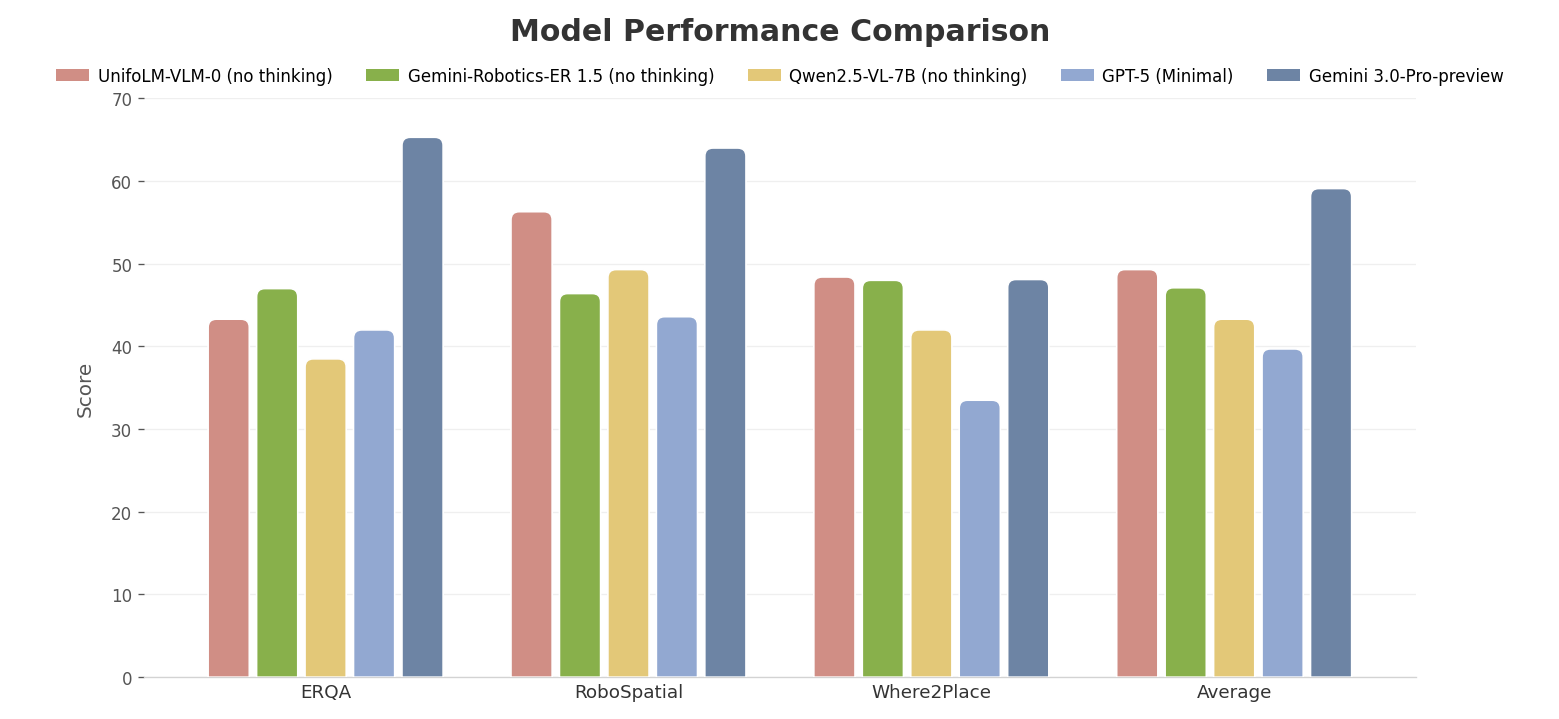
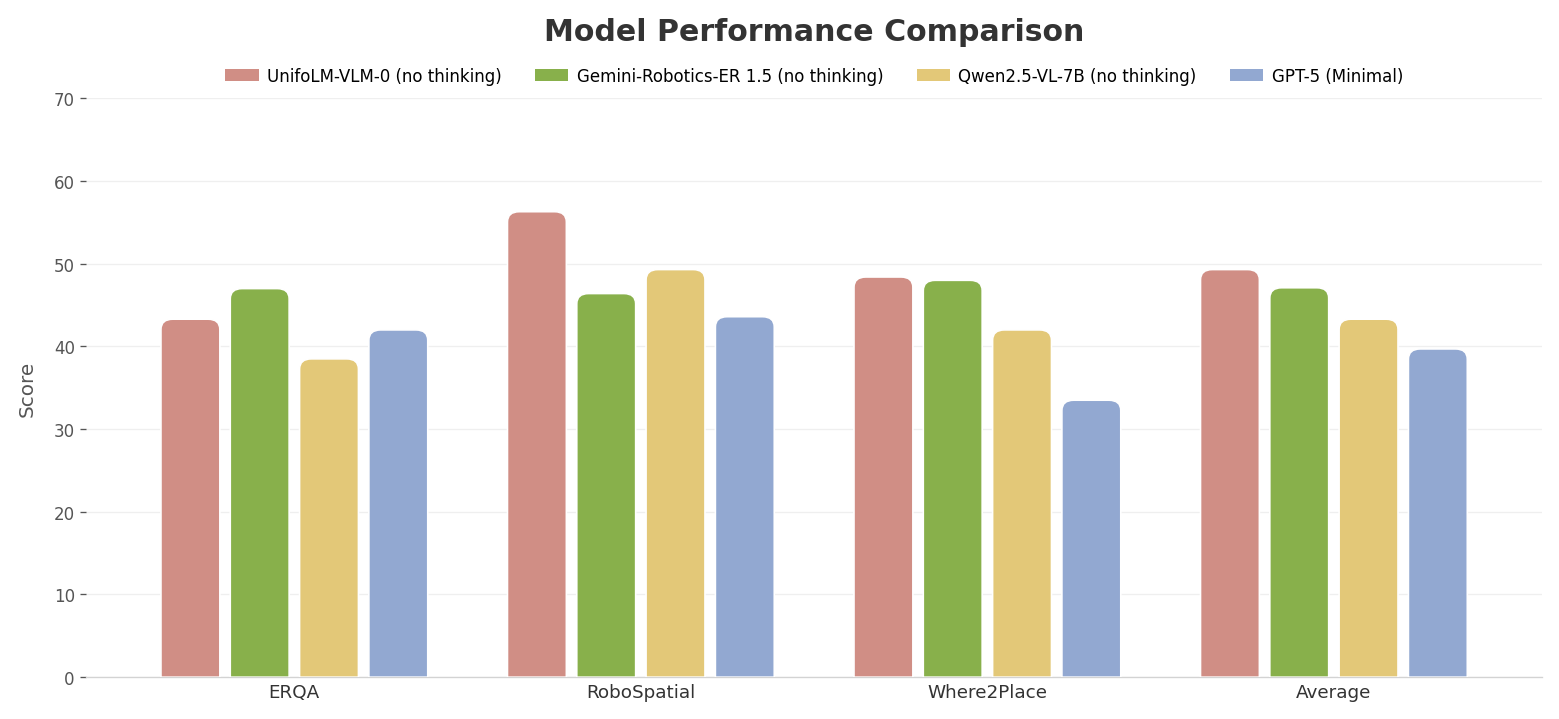
acc video

diff --git a/index.html b/index.html
@@ -634,7 +634,7 @@
       <h1>UnifoLM-VLA-0</h1>
       <p class="subtitle">
         <span class="lang en">A Vision-Language-Action Foundation Model for General Robotic Manipulation</span>
-        <span class="lang zh">面向通用机器人操作的视觉-语言-动作基础模型</span>
+        <span class="lang zh">面向通用人形机器人操作的视觉-语言-动作大模型</span>
       </p>
       
       <div class="external-links">
@@ -675,7 +675,7 @@
       
       <div class="lang-block zh">
         <p>
-          <strong>UnifoLM-VLA-0</strong> 是 UnifoLM 系列下面向通用机器人操作设计的视觉-语言-动作（VLA）基础模型。该模型旨在突破传统 VLM 在物理交互中的局限，通过在机器人操作数据上的继续预训练，实现了从通用"图文理解"向具备物理常识的"具身大脑"的进化。
+          <strong>UnifoLM-VLA-0</strong> 是 UnifoLM 系列下面向通用人形机器人操作的视觉-语言-动作（VLA）大模型。该模型旨在突破传统 VLM 在物理交互中的局限，通过在机器人操作数据上的继续预训练，实现了从通用"图文理解"向具备物理常识的"具身大脑"的进化。
         </p>
       </div>
 
@@ -687,7 +687,7 @@
           </h3>
           <p>
             <span class="lang en">Addressing the high-precision demands of manipulation tasks, the model deeply integrates text instructions with 2D/3D spatial details through continual pre-training, thereby significantly enhancing its spatial perception capabilities.</span>
-            <span class="lang zh">针对操作任务的对指令和图像理解需求，模型通过继续预训练深度融合了文本指令与2D/3D空间细节，增强了模型的空间感知能力。</span>
+            <span class="lang zh">针对操作任务的对指令和图像理解需求，模型通过继续预训练深度融合了文本指令与2D/3D空间细节，<strong>增强了模型的空间感知能力。</strong></span>
           </p>
         </div>
         <div class="feature-card">
@@ -697,7 +697,7 @@
           </h3>
           <p>
             <span class="lang en">By constructing data for full dynamics prediction, the model demonstrates superior task generalization. A single policy can successfully execute 12 categories of complex manipulation tasks in physical environments.</span>
-            <span class="lang zh">构建了全链路动力学预测数据，模型具备更好的任务泛化性。在真机验证中，仅需单一策略即可高质量完成 12 类复杂的操作任务。</span>
+            <span class="lang zh">构建了全链路动力学预测数据，模型具备更好的任务泛化性。在真机验证中，<strong>仅需单一策略即可高质量完成 12 类复杂的操作任务。</strong></span>
           </p>
         </div>
       </div>
@@ -743,10 +743,11 @@
       
       <div class="lang-block zh">
         <p>
-          基于 <strong>Qwen2.5-VL-7B</strong> 模型，我们构建了涵盖机器人与通用场景的多任务数据集进行继续预训练。该数据集包括了2D检测与分割、任务层级分解、3D目标检测、空间位置推理及轨迹预测等多维数据，提升模型对几何空间与语义逻辑的对齐能力。
+          基于 <strong>Qwen2.5-VL-7B</strong> 模型，我们构建了覆盖机器人与通用场景的多任务数据集，并开展持续预训练。该数据集涵盖 2D 检测与分割、任务层级分解、3D 目标检测、空间位置推理及轨迹预测等多维数据，有效提升了模型对几何空间与语义逻辑的对齐能力。
         </p>
         <p>
-          针对操作任务，我们进一步清洗了 <strong>Open-X</strong> 和<strong>星海图</strong>开源数据集，最终用了<strong>340小时</strong>的机器人数据构建了离散动作，模型集成了动作分块预测策略、前向动力学及逆向动力学动作预测，从而赋予了 VLM 模型理解物理交互规律并进行长程动作规划的能力。
+          <!-- 针对操作任务，我们进一步清洗了 <strong>Open-X</strong> 和<strong>星海图</strong>开源数据集，最终用了<strong>340小时</strong>的机器人数据构建了离散动作，模型集成了动作分块预测策略、前向动力学及逆向动力学动作预测，从而赋予了 VLM 模型理解物理交互规律并进行长程动作规划的能力。 -->
+          针对操作类任务，我们对 <strong>Open-X</strong> 与<strong>星海图</strong>等开源数据集进行了系统化清洗，最终仅利用约 <strong>340</strong> 小时的真机数据，进行离散动作的预测训练。在此基础上，模型集成了动作分块预测，以及前向与逆向动力学约束，实现对动作序列的统一建模，从而使 VLM 具备对机器人与物体物理交互规律的深度理解能力，并支持长时序动作规划与决策。
         </p>
       </div>
 
@@ -758,7 +759,8 @@
       
       <p>
         <span class="lang en">The following examples demonstrate the spatial reasoning and perception capabilities of UnifoLM-VLA-0 across different task types.</span>
-        <span class="lang zh">基于上述构建的数据集我们继续预训练得到了 UnifoLM-VLM-0，以下示例展示了 UnifoLM-VLM-0 在不同任务类型上的空间推理和感知能力。</span>
+        <!-- <span class="lang zh">基于上述构建的数据集我们继续预训练得到了 UnifoLM-VLM-0，以下示例展示了 UnifoLM-VLM-0 在不同任务类型上的空间推理和感知能力。</span> -->
+         <span class="lang zh">基于上述构建的数据集开展持续预训练后，我们获得了 <strong>UnifoLM-VLM-0</strong>。该模型在多类任务场景下展现出显著增强的空间推理能力与可靠的多模态感知性能，相关零样本测试示例如下：</span>
       </p>
 
       <!-- Carousel -->
@@ -965,7 +967,7 @@
       
       <p>
         <span class="lang en">To quantitatively evaluate the improvement in spatial perception, we evaluated the model across three spatial understanding benchmarks. The results indicate significant performance improvement.</span>
-        <span class="lang zh">为了量化评估模型空间感知能力的提升效果，我们在三个空间理解基准上对模型进行了评估，结果显示模型得到较大提升。</span>
+        <span class="lang zh">我们在三个空间理解基准上对模型进行了评估，结果显示：模型在空间感知与理解能力上较 Qwen2.5-VL-7B 有显著提升，并且在 “no thinking” 模式下可比肩 Gemini-Robotics-ER 1.5。</span>
       </p>
 
       <div class="benchmark-card">
@@ -978,7 +980,8 @@
 
       <p style="margin-top: 1.5rem;">
         <span class="lang en">We conducted experimental validation of multi-task training in both simulated and real-world environments. The results demonstrate the model's general capability to handle multiple tasks using a single model. In the LIBERO simulation environment, our multi-task model approaches state-of-the-art performance.</span>
-        <span class="lang zh">我们基于 UnifoLM-VLM-0 和动作头构建了 UnifoLM-VLA-0，在仿真环境与真机实验中进行了多任务训练的实验验证，结果表明该模型可以实现一个模型完成多个任务的通用能力，LIBERO 仿真环境，我们的多任务模型接近最好效果的模型。</span>
+        <!-- <span class="lang zh">我们基于 UnifoLM-VLM-0 和动作头构建了 UnifoLM-VLA-0，在仿真环境与真机实验中进行了多任务训练的实验验证，结果表明该模型可以实现一个模型完成多个任务的通用能力，LIBERO 仿真环境，我们的多任务模型接近最好效果的模型。</span> -->
+        <span class="lang zh">我们在 <strong>UnifoLM-VLM-0</strong> 模型的基础上集成了动作预测头（Action Head），从而构建出 <strong>UnifoLM-VLA-0</strong>。经由仿真环境与真机实验的多任务训练验证，结果显示该模型具备单模型处理多任务的通用能力，在 LIBERO 仿真基准测试中，我们的多任务模型取得了最优的性能。</span>
       </p>
 
       <div class="benchmark-card">
@@ -991,60 +994,28 @@
             <tr>
               <th>Model</th>
               <th>LIBERO-Spatial</th>
-              <th>LIBERO-Goal</th>
               <th>LIBERO-Object</th>
+              <th>LIBERO-Goal</th>
               <th>LIBERO-Long</th>
               <th>Average</th>
             </tr>
           </thead>
           <tbody>
-            <tr>
-              <td>GR00T-N1</td>
-              <td>94.4</td>
-              <td>97.6</td>
-              <td>93.0</td>
-              <td>90.6</td>
-              <td>93.9</td>
-            </tr>
-            <tr>
-              <td>π0</td>
-              <td>98.0</td>
-              <td>96.8</td>
-              <td>94.4</td>
-              <td>88.4</td>
-              <td>94.4</td>
-            </tr>
-            <tr>
-              <td>F1</td>
-              <td>98.2</td>
-              <td>97.8</td>
-              <td>95.4</td>
-              <td>91.3</td>
-              <td>95.7</td>
-            </tr>
-            <tr>
-              <td>InternVLA-M1</td>
-              <td>98.0</td>
+            <tr class="highlight">
+              <td>UnifoLM-VLA-0</td>
+              <td>99.2</td>
+              <td class="best">100</td>
               <td>99.0</td>
-              <td>93.8</td>
-              <td>92.6</td>
-              <td>95.9</td>
+              <td>95.4</td>
+              <td class="best">98.4</td>
             </tr>
             <tr>
-              <td>π0.5</td>
-              <td>98.8</td>
+              <td>EO1</td>
+              <td class="best">99.7</td>
+              <td>99.8</td>
+              <td class="best">99.2</td>
+              <td>94.8</td>
               <td>98.2</td>
-              <td>98.0</td>
-              <td>92.4</td>
-              <td>96.9</td>
-            </tr>
-            <tr>
-              <td>OpenVLA-OFT</td>
-              <td>97.6</td>
-              <td>98.4</td>
-              <td>97.9</td>
-              <td>94.5</td>
-              <td>97.1</td>
             </tr>
             <tr>
               <td>X-VLA</td>
@@ -1055,28 +1026,84 @@
               <td>98.1</td>
             </tr>
             <tr>
-              <td>EO1</td>
-              <td class="best">99.7</td>
-              <td>99.8</td>
-              <td>99.2</td>
-              <td>94.8</td>
-              <td>98.2</td>
+              <td>OpenVLA-OFT</td>
+              <td>97.6</td>
+              <td>98.4</td>
+              <td>97.9</td>
+              <td>94.5</td>
+              <td>97.1</td>
             </tr>
             <tr>
-              <td>Being-H0.5</td>
-              <td>99.2</td>
-              <td>99.6</td>
-              <td class="best">99.4</td>
-              <td>97.4</td>
-              <td class="best">98.9</td>
+              <td>GR00T-N1.6</td>
+              <td>97.7</td>
+              <td>98.5</td>
+              <td>97.5</td>
+              <td>94.4</td>
+              <td>97.0</td>
             </tr>
-            <tr class="highlight">
-              <td><strong>UnifoLM-VLA</strong></td>
-              <td>99.2</td>
-              <td class="best">100</td>
-              <td>99.0</td>
-              <td>95.4</td>
+            <tr>
+              <td>π0.5</td>
+              <td>98.8</td>
+              <td>98.2</td>
+              <td>98.0</td>
+              <td>92.4</td>
+              <td>96.9</td>
+            </tr>
+            <tr>
+              <td>MemoryVLA</td>
               <td>98.4</td>
+              <td>98.4</td>
+              <td>96.4</td>
+              <td>93.4</td>
+              <td>96.6</td>
+            </tr>
+            <tr>
+              <td>InternVLA-M1</td>
+              <td>98.0</td>
+              <td>99.0</td>
+              <td>93.8</td>
+              <td>92.6</td>
+              <td>95.9</td>
+            </tr>
+            <tr>
+              <td>F1</td>
+              <td>98.2</td>
+              <td>97.8</td>
+              <td>95.4</td>
+              <td>91.3</td>
+              <td>95.7</td>
+            </tr>
+            <tr>
+              <td>π0</td>
+              <td>98.0</td>
+              <td>96.8</td>
+              <td>94.4</td>
+              <td>88.4</td>
+              <td>94.4</td>
+            </tr>
+            <tr>
+              <td>GR00T-N1</td>
+              <td>94.4</td>
+              <td>97.6</td>
+              <td>93.0</td>
+              <td>90.6</td>
+              <td>93.9</td>
+            </tr>
+            <tr>
+              <td>CogACT</td>
+              <td>97.2</td>
+              <td>98.0</td>
+              <td>90.2</td>
+              <td>88.8</td>
+              <td>93.2</td>
+            </tr>
+            <tr>
+              <td>π0 + FAST</td>
+              <td>96.4</td>
+              <td>96.8</td>
+              <td>88.6</td>
+              <td>60.2</td>
+              <td>85.5</td>
             </tr>
           </tbody>
         </table>
@@ -1094,7 +1121,8 @@
       
       <p>
         <span class="lang en">We utilized the Unitree G1 robot to collect data on 12 complex tasks, each requiring multiple steps for completion. We trained a single policy model based on UnifoLM-VLA-0 for all tasks. This unified model successfully executes all tasks and exhibits robustness against human interference.</span>
-        <span class="lang zh">我们用宇树G1机器人采集了12个复杂的任务，每个任务都会涉及到多个步骤才能完成任务，UnifoLM-VLA-0 在所有任务上只训练一个策略模型，这个模型可以完成所有任务并且可以接受人为干扰。</span>
+        <!-- <span class="lang zh">我们用<a href="https://www.unitree.com/g1/" target="_blank" rel="noopener noreferrer">宇树G1机器人</a>构建了包含12项具有长程时序依赖的复杂操作任务数据集，<strong>UnifoLM-VLA-0</strong> 采用单一策略网络进行统一训练，不仅能同时完成这12项任务而且在面临真实世界不可预测的动态干扰时展现出任务恢复能力。以下是我们12个任务的演示视频，每个任务在执行过程中都会有人为干扰：</span> -->
+        <span class="lang zh">在<a href="https://www.unitree.com/g1/" target="_blank" rel="noopener noreferrer">宇树 G1</a>人形机器人平台上，我们构建了覆盖 12 类复杂操作任务的高质量真机数据集，并基于此对 <strong>UnifoLM-VLA-0</strong> 进行单一策略网络的统一端到端训练。真机实验结果表明，该模型能够在同一策略 checkpoint 下，稳定完成全部 12 项任务，在外部扰动条件下仍保持良好的执行鲁棒性与抗干扰能力。<strong>UnifoLM-VLA-0</strong> 在 12 个复杂操作任务 上的真机运行效果视频如下：</span>
       </p>
 
       <div class="video-gallery" id="videoGallery">
@@ -1218,6 +1246,7 @@
               autoplay
               muted
               loop
+              controls
               playsinline
               data-src="assets/unitree_opensource_videos/mp4/${video.id}.mp4"
             >
